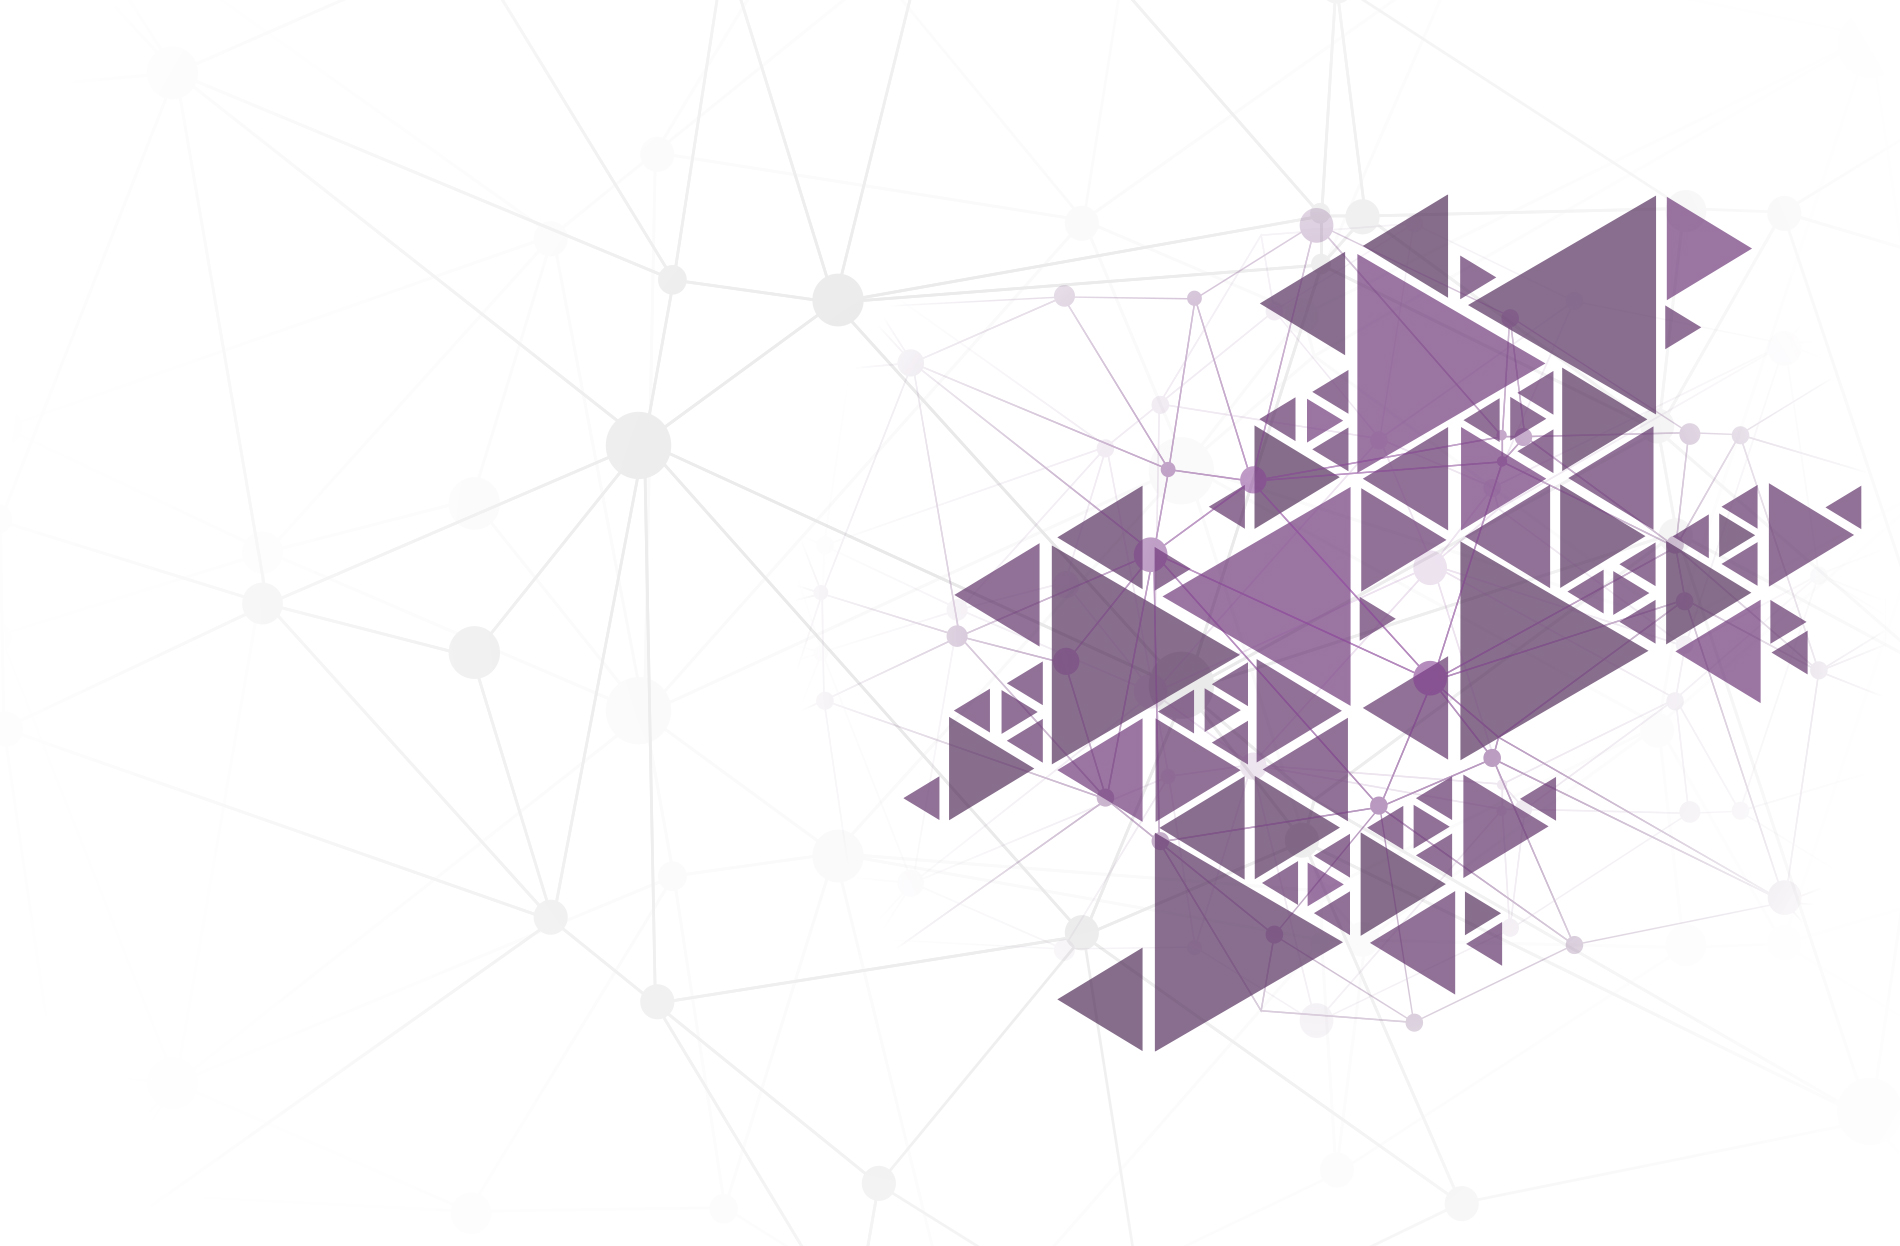
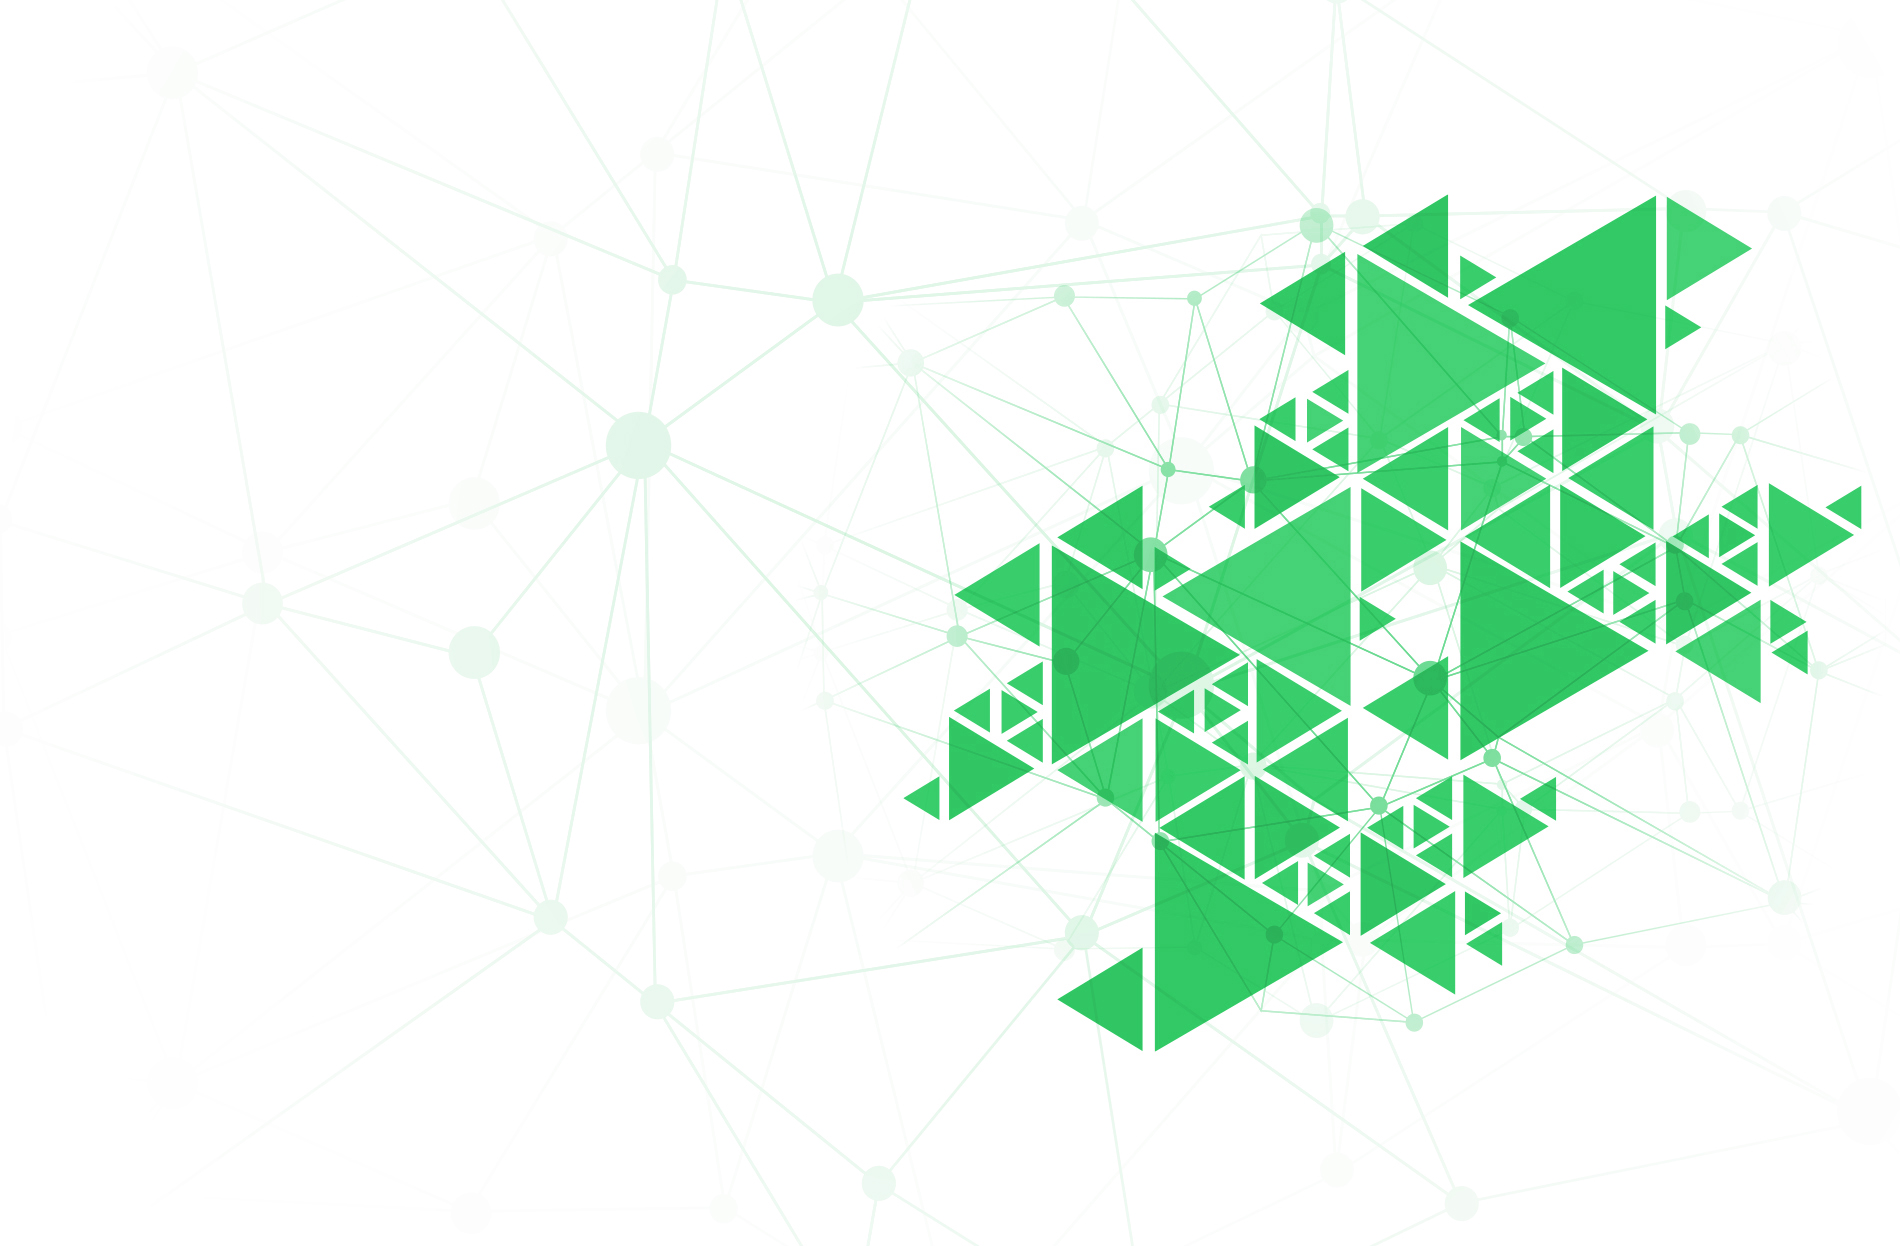
update all

Changed region(s): [[0.4658, 0.1525, 0.9937, 0.8539]]

diff --git a/css/colors69bb.css b/css/colors69bb.css
@@ -7,11 +7,11 @@
 -----------------------------------------------------------------*/
 
 
-::selection { background: #56335b; }
+::selection { background: #25d366; }
 
-::-moz-selection { background: #56335b; }
+::-moz-selection { background: #25d366; }
 
-::-webkit-selection { background: #56335b; }
+::-webkit-selection { background: #25d366; }
 
 
 a,
@@ -67,7 +67,7 @@ h6 > span:not(.nocolor):not(.badge),
 .dark .product-title h3 a:hover,
 .dark .single-product .product-title h2 a:hover,
 .dark .product-price ins,
-.dark .tab-nav-lg li.ui-tabs-active a { color: #56335b; }
+.dark .tab-nav-lg li.ui-tabs-active a { color: #25d366; }
 
 .color,
 .h-text-color:hover,
@@ -77,7 +77,7 @@ a.h-text-color:hover,
 .tagcloud a:hover,
 .nav-tree li:hover > a,
 .nav-tree li.current > a,
-.nav-tree li.active > a { color: #56335b !important; }
+.nav-tree li.active > a { color: #25d366 !important; }
 
 .top-cart-number::before,
 #page-menu-wrap,
@@ -122,7 +122,7 @@ input.switch-toggle-flat:checked + label::after,
 .dark #gotoTop:hover,
 .dark input.switch-toggle-round:checked + label::before,
 .dark input.switch-toggle-flat:checked + label,
-.dark input.switch-toggle-flat:checked + label::after { background-color: #56335b; }
+.dark input.switch-toggle-flat:checked + label::after { background-color: #25d366; }
 
 .bg-color,
 .bg-color #header-wrap,
@@ -135,14 +135,14 @@ input.switch-toggle-flat:checked + label::after,
 .widget-filter-links li.active-filter span,
 .page-item.active .page-link,
 .page-link:hover,
-.page-link:focus { background-color: #56335b !important; }
+.page-link:focus { background-color: #25d366 !important; }
 
 .bootstrap-switch .bootstrap-switch-handle-on.bootstrap-switch-themecolor,
 .bootstrap-switch .bootstrap-switch-handle-off.bootstrap-switch-themecolor,
 .checkbox-style:checked + .checkbox-style-1-label::before,
 .checkbox-style:checked + .checkbox-style-2-label::before,
 .checkbox-style:checked + .checkbox-style-3-label::before,
-.radio-style:checked + .radio-style-3-label::before { background: #56335b; }
+.radio-style:checked + .radio-style-3-label::before { background: #25d366; }
 
 .irs-bar,
 .irs-from,
@@ -150,7 +150,7 @@ input.switch-toggle-flat:checked + label::after,
 .irs-single,
 .irs-handle > i:first-child,
 .irs-handle.state_hover > i:first-child,
-.irs-handle:hover > i:first-child { background-color: #56335b !important; }
+.irs-handle:hover > i:first-child { background-color: #25d366 !important; }
 
 .top-cart-item-image:hover,
 .grid-filter.style-3 li.activeFilter a,
@@ -162,20 +162,20 @@ input.switch-toggle-flat:checked + label::after,
 .heading-block.border-color::after,
 .page-item.active .page-link,
 .page-link:focus,
-.dark .cart-product-thumbnail img:hover { border-color: #56335b; }
+.dark .cart-product-thumbnail img:hover { border-color: #25d366; }
 
 .border-color,
 .process-steps li.active a,
 .process-steps li.ui-tabs-active a,
 .tagcloud a:hover,
-.page-link:hover { border-color: #56335b !important; }
+.page-link:hover { border-color: #25d366 !important; }
 
 .top-links-sub-menu,
 .top-links-section,
 .tabs-tb .tab-nav li.ui-tabs-active a,
 .dark .top-links-sub-menu,
 .dark .top-links-section,
-.dark .tabs-tb .tab-nav li.ui-tabs-active a { border-top-color: #56335b; }
+.dark .tabs-tb .tab-nav li.ui-tabs-active a { border-top-color: #25d366; }
 
 .title-border-color::before,
 .title-border-color::after,
@@ -184,20 +184,20 @@ input.switch-toggle-flat:checked + label::after,
 .irs-to::after,
 .irs-from::before,
 .irs-to::before,
-.irs-single::before { border-top-color: #56335b !important; }
+.irs-single::before { border-top-color: #25d366 !important; }
 
-.title-block { border-left-color: #56335b; }
+.title-block { border-left-color: #25d366; }
 
 .rtl .title-block {
 	border-left-color: transparent;
-	border-right-color: #56335b;
+	border-right-color: #25d366;
 }
 
-.title-block-right { border-right-color: #56335b; }
+.title-block-right { border-right-color: #25d366; }
 
 .rtl .title-block-right {
 	border-right-color: transparent;
-	border-left-color: #56335b;
+	border-left-color: #25d366;
 }
 
 .more-link,
@@ -207,22 +207,22 @@ input.switch-toggle-flat:checked + label::after,
 .title-bottom-border h3,
 .title-bottom-border h4,
 .title-bottom-border h5,
-.title-bottom-border h6 { border-bottom-color: #56335b; }
+.title-bottom-border h6 { border-bottom-color: #25d366; }
 
 .fbox-effect.fbox-dark .fbox-icon i::after,
-.dark .fbox-effect.fbox-dark .fbox-icon i::after { box-shadow: 0 0 0 2px #56335b; }
+.dark .fbox-effect.fbox-dark .fbox-icon i::after { box-shadow: 0 0 0 2px #25d366; }
 
 .fbox-border.fbox-effect.fbox-dark .fbox-icon i:hover,
 .fbox-border.fbox-effect.fbox-dark:hover .fbox-icon i,
 .dark .fbox-border.fbox-effect.fbox-dark .fbox-icon i:hover,
-.dark .fbox-border.fbox-effect.fbox-dark:hover .fbox-icon i { box-shadow: 0 0 0 1px #56335b; }
+.dark .fbox-border.fbox-effect.fbox-dark:hover .fbox-icon i { box-shadow: 0 0 0 1px #25d366; }
 
 
 @media (min-width: 992px) {
 
 	.sub-menu-container .menu-item:hover > .menu-link,
 	.mega-menu-style-2 .mega-menu-title > .menu-link:hover,
-	.dark .mega-menu-style-2 .mega-menu-title:hover > .menu-link { color: #56335b; }
+	.dark .mega-menu-style-2 .mega-menu-title:hover > .menu-link { color: #25d366; }
 
 	.style-3 .menu-container > .menu-item.current > .menu-link,
 	.sub-title .menu-container > .menu-item:hover > .menu-link::after,
@@ -230,11 +230,11 @@ input.switch-toggle-flat:checked + label::after,
 	.page-menu-sub-menu,
 	.dots-menu .page-menu-item.current > a,
 	.dots-menu .page-menu-item div,
-	.dark .style-3 .menu-container > .menu-item.current > .menu-link { background-color: #56335b; }
+	.dark .style-3 .menu-container > .menu-item.current > .menu-link { background-color: #25d366; }
 
 	.style-4 .menu-container > .menu-item:hover > .menu-link,
 	.style-4 .menu-container > .menu-item.current > .menu-link,
-	.dots-menu.dots-menu-border .page-menu-item.current > a { border-color: #56335b; }
+	.dots-menu.dots-menu-border .page-menu-item.current > a { border-color: #25d366; }
 
 	.sub-menu-container,
 	.mega-menu-content,
@@ -243,12 +243,12 @@ input.switch-toggle-flat:checked + label::after,
 	.top-cart-content,
 	.dark .sub-menu-container,
 	.dark .mega-menu-content,
-	.dark .top-cart-content { border-top-color: #56335b; }
+	.dark .top-cart-content { border-top-color: #25d366; }
 
-	.dots-menu .page-menu-item div::after { border-left-color: #56335b; }
+	.dots-menu .page-menu-item div::after { border-left-color: #25d366; }
 
 	.rtl .dots-menu .page-menu-item div::after {
 		border-left-color: transparent;
-		border-right-color: #56335b;
+		border-right-color: #25d366;
 	}
 }

diff --git a/index.html b/index.html
@@ -21,7 +21,11 @@
     <link href="demos/seo/css/fonts.css" rel="stylesheet" type="text/css"/>
     <link href="demos/seo/seo.css" rel="stylesheet" type="text/css"/>
 
-
+    <script>
+        if (location.protocol !== 'https:') {
+            location.replace(`https:${location.href.substring(location.protocol.length)}`);
+        }
+    </script>
     <title>Home | MediaSpy</title>
 </head>
 <body class="stretched">
@@ -80,10 +84,8 @@
                 <div class="header-row">
 
                     <div id="logo">
-                        <a class="standard-logo" data-dark-logo="images/logo.png" href="https://demo.ngt.hk/"><img
-                                alt="NGT Tech" src="images/logo.png"></a>
-                        <a class="retina-logo" data-dark-logo="images/logo-dark@2x.png" href="https://demo.ngt.hk/"><img
-                                alt="NGT Tech" src="images/logo-dark@2x.png"></a>
+                        <a class="standard-logo pt-lg-0 pt-2" data-dark-logo="images/logo.png" href="#"><img
+                                alt="NGT Tech" src="images/logo.svg" style="height:40px"></a>
                     </div>
                     <div class="header-misc">
                         <a class="button button-rounded ms-3 d-none d-sm-block" href="https://buy.stripe.com/eVa6oA6VX8XmavC5kl">Donate</a>
@@ -251,8 +253,8 @@
                                 <div class="badge rounded-pill badge-default">Package</div>
                                 <h3 class="nott ls0">No Hidden Charges. <br>Choose Your Best Plan.</h3>
                             </div>
-                            <p>Lorem ipsum dolor sit amet, consectetur adipisicing elit. Deserunt dolore voluptatem
-                                assumenda quae possimus sunt dignissimos tempora officia.</p>
+                           <!-- <p>Lorem ipsum dolor sit amet, consectetur adipisicing elit. Deserunt dolore voluptatem
+                                assumenda quae possimus sunt dignissimos tempora officia.</p>-->
                         </div>
                         <div class="col-lg-8">
                             <div class="page-section p-0 m-0" id="section-pricing">

diff --git a/demos/seo/seo.css b/demos/seo/seo.css
@@ -5,7 +5,7 @@
 /* Root Settings
 -----------------------------------------------------------------*/
 :root {
-	--themecolor:  #56335b;
+	--themecolor:  #25d366;
 	--basefontsize: 16px;
 	--fontfamily: 'Poppins', sans-serif;
 	--headerboxshadow: 0 0 10px 5px rgba(0, 0, 0, 0.05);
@@ -81,7 +81,7 @@ div.menu-link { cursor: default; }
 	height: 70px;
 	line-height: 71px;
 	font-size: 24px;
-	background: linear-gradient(60deg, #56335b, #ff8e01, #ed9931, #f37055);
+	background: linear-gradient(60deg, #25d366, #ff8e01, #ed9931, #f37055);
 	color: #FFF;
 	text-align: center;
 	border-radius: 50%;
@@ -113,7 +113,7 @@ div.menu-link { cursor: default; }
 input.switch-toggle-round + label::before,
 input.switch-toggle-round + label {
 	border-radius: 4px;
-	background-color: var(--themecolor, #56335b);
+	background-color: var(--themecolor, #25d366);
 }
 
 .price-discount {
@@ -214,8 +214,8 @@ input.switch-toggle-round + label::after { border-radius: 4px }
 }
 
 .badge.badge-default {
-	border: 1px solid var(--themecolor, #56335b);
-	color: var(--themecolor, #56335b);
+	border: 1px solid var(--themecolor, #25d366);
+	color: var(--themecolor, #25d366);
 }
 
 /* Testimonials Carousel
@@ -387,7 +387,7 @@ input.switch-toggle-round + label::after { border-radius: 4px }
     bottom: 0;
     width: 5px;
     border-radius: 0 0 6px 6px;
-    background-image: linear-gradient(to bottom, #FFE640 0%, #56335b 100%);
+    background-image: linear-gradient(to bottom, #FFE640 0%, #25d366 100%);
 }
 
 .story-timeline .story-timeline-dots {
@@ -399,7 +399,7 @@ input.switch-toggle-round + label::after { border-radius: 4px }
     width: 26px;
     height: 36px;
     margin-left: -13px;
-    background-image: linear-gradient(#FFE640 0%, #56335b 100%);
+    background-image: linear-gradient(#FFE640 0%, #25d366 100%);
     border: 6px solid #FFF;
     border-radius: 50%;
     box-shadow: 0 0.125rem 0.25rem rgba(0, 0, 0, 0.075);
